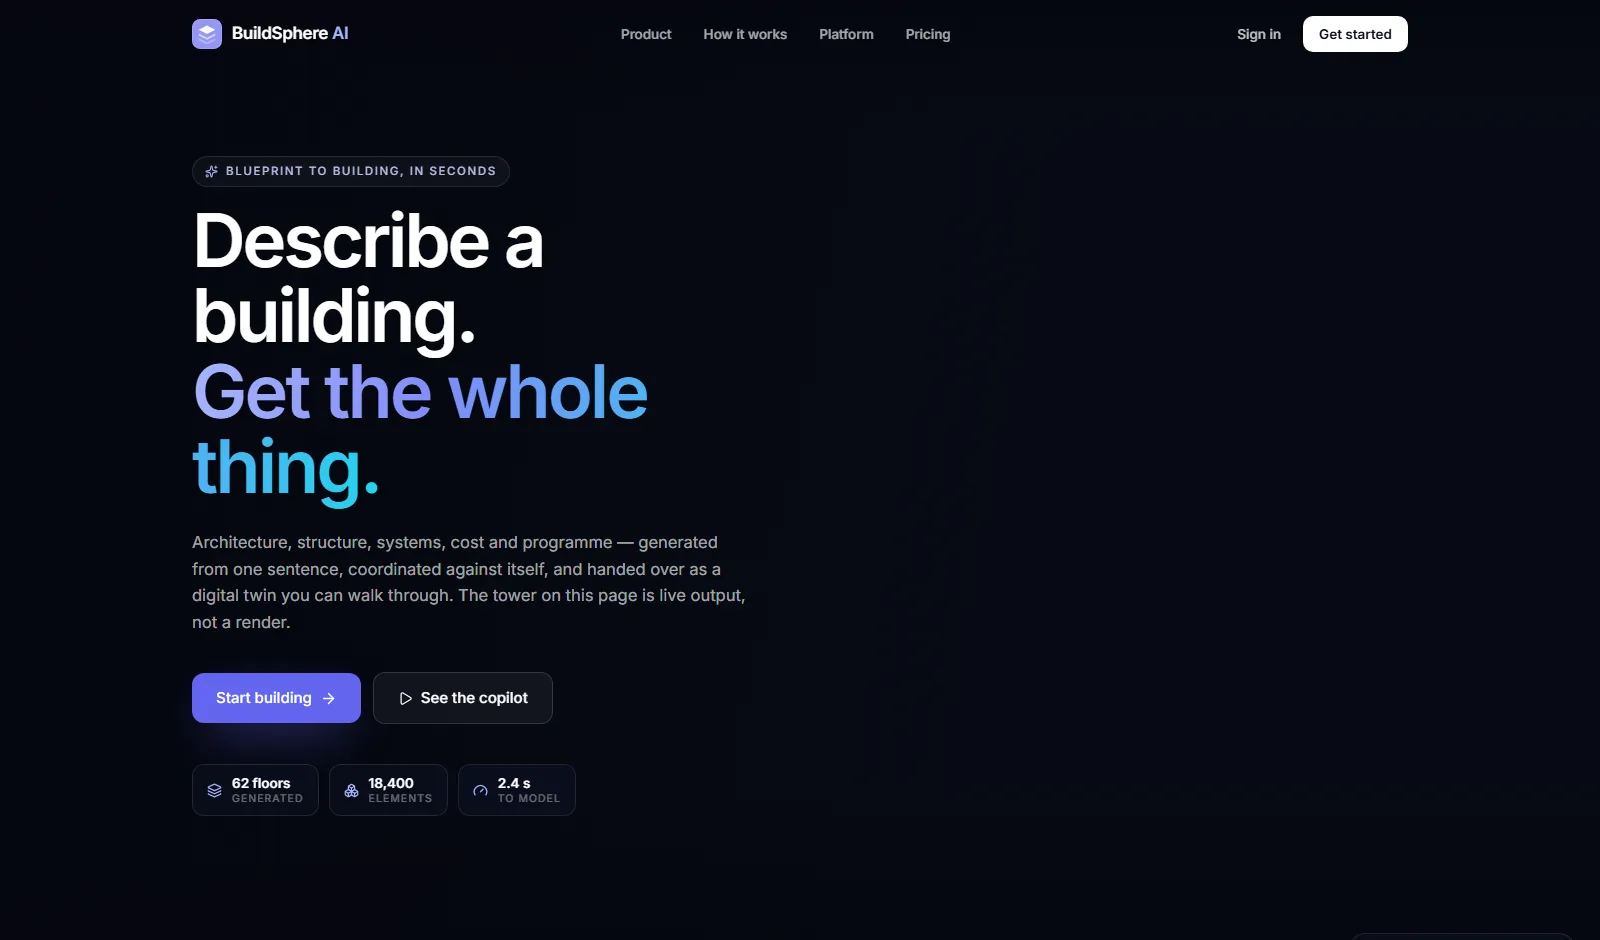
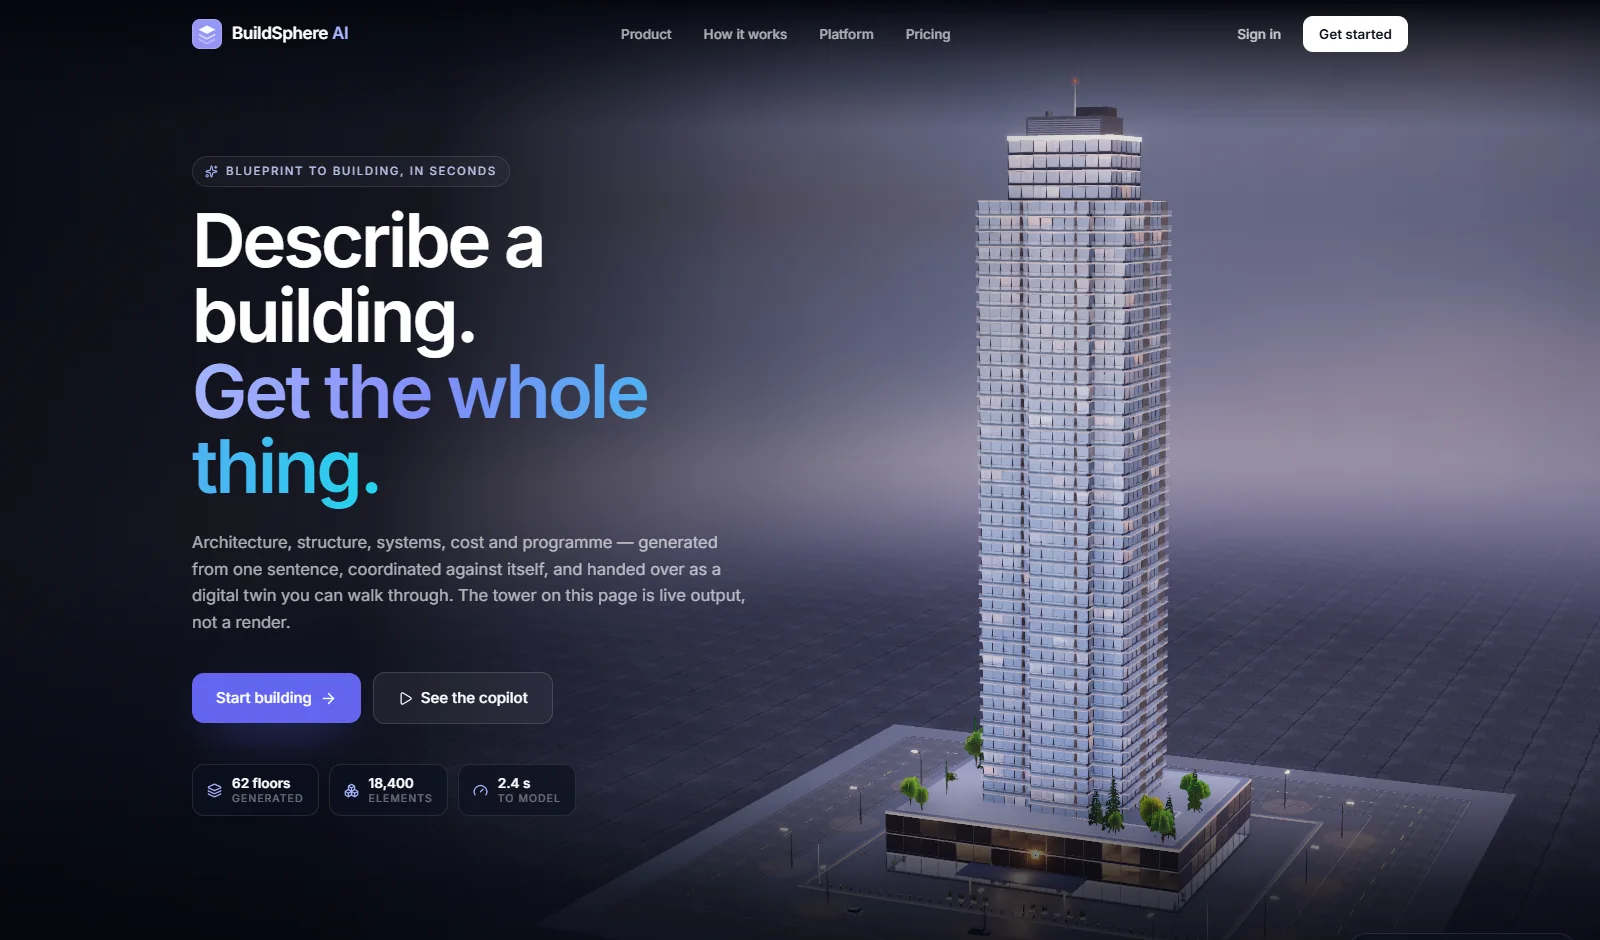
Soften product colours and show BuildSphere's real 3D tower
Each product's glow now stays within one family of its own colour at lower
strength, instead of pairing clashing hues. BuildSphere's screens are the
live WebGL tower from its landing page, replacing the drawn blueprint.

diff --git a/src/components/showcase/ProductAura.tsx b/src/components/showcase/ProductAura.tsx
@@ -1,13 +1,17 @@
 import { cn } from "@/lib/utils";
 
-/** A second hue for each product's atmosphere, so no two look alike. */
+/**
+ * A lighter tint of each product's own colour, used for gradients and the
+ * second pool of light. Staying in one colour family keeps every product
+ * calm and distinct instead of rainbow-like.
+ */
 const PARTNER: Record<string, string> = {
-  "ai-dms": "#22d3ee",
-  "aldar-sustainability-platform": "#84cc16",
-  "enterprise-agentos": "#ec4899",
-  "vantage-enterprise": "#6366f1",
-  "enterprise-dashboards": "#ef4444",
-  "buildsphere-ai": "#6366f1",
+  "ai-dms": "#a5b4fc",
+  "aldar-sustainability-platform": "#6ee7b7",
+  "enterprise-agentos": "#c4b5fd",
+  "vantage-enterprise": "#7dd3fc",
+  "enterprise-dashboards": "#fcd34d",
+  "buildsphere-ai": "#fca5a5",
 };
 
 export function partnerHue(slug: string, accent: string): string {
@@ -36,7 +40,7 @@ export function ProductAura({
         className="absolute -left-[10%] top-[5%] h-[80%] w-[60%] rounded-full blur-[90px]"
         style={{
           background: accent,
-          opacity: 0.32 * intensity,
+          opacity: 0.16 * intensity,
           animation: "ax-drift 14s ease-in-out infinite",
         }}
       />
@@ -44,54 +48,17 @@ export function ProductAura({
         className="absolute -right-[8%] bottom-[-10%] h-[75%] w-[55%] rounded-full blur-[100px]"
         style={{
           background: partner,
-          opacity: 0.22 * intensity,
+          opacity: 0.1 * intensity,
           animation: "ax-drift 17s ease-in-out -6s infinite",
         }}
       />
       <span
-        className="absolute left-1/2 top-1/2 aspect-square w-[85%] -translate-x-1/2 -translate-y-1/2 rounded-full opacity-[0.16] blur-[40px]"
+        className="absolute left-1/2 top-1/2 aspect-square w-[85%] -translate-x-1/2 -translate-y-1/2 rounded-full opacity-[0.07] blur-[50px]"
         style={{
           background: `conic-gradient(from 0deg, ${accent}, transparent 30%, ${partner} 55%, transparent 80%, ${accent})`,
           animation: "ax-spin 40s linear infinite",
         }}
       />
     </div>
-  );
-}
-
-/**
- * BuildSphere's signature: a tower drawn as a construction blueprint,
- * standing behind its screen. Decorative only.
- */
-export function BlueprintTower({ accent, className }: { accent: string; className?: string }) {
-  const floors = 22;
-  return (
-    <svg viewBox="0 0 200 420" className={cn("pointer-events-none", className)} aria-hidden>
-      <defs>
-        <linearGradient id="bp-fade" x1="0" y1="0" x2="0" y2="1">
-          <stop offset="0" stopColor="#fecaca" stopOpacity="1" />
-          <stop offset="1" stopColor={accent} stopOpacity="0.55" />
-        </linearGradient>
-      </defs>
-      <g fill="none" stroke="url(#bp-fade)" strokeWidth="1.6">
-        {/* podium */}
-        <path d="M20 400 L20 350 L180 350 L180 400" />
-        <path d="M20 375 L180 375" opacity="0.6" />
-        {/* tower */}
-        <path d="M55 350 L60 40 L140 40 L145 350" />
-        <path d="M100 40 L100 14 M92 22 L108 22" />
-        {Array.from({ length: floors }, (_, i) => {
-          const y = 350 - ((i + 1) * 310) / (floors + 1);
-          const inset = ((350 - y) / 310) * 5;
-          return <path key={i} d={`M${55 + inset} ${y} L${145 - inset} ${y}`} opacity={0.55 + (i % 4 === 0 ? 0.45 : 0)} />;
-        })}
-        {[75, 100, 125].map((x) => (
-          <path key={x} d={`M${x} 350 L${x} 40`} opacity="0.45" strokeDasharray="3 5" />
-        ))}
-        {/* dimension lines */}
-        <path d="M168 40 L168 350 M163 40 L173 40 M163 350 L173 350" opacity="0.5" />
-        <path d="M55 384 L145 384" opacity="0.4" strokeDasharray="2 3" />
-      </g>
-    </svg>
   );
 }

diff --git a/src/components/showcase/ProductShowcase.tsx b/src/components/showcase/ProductShowcase.tsx
@@ -6,7 +6,7 @@ import type { ResolvedProduct } from "@/cms/useProduct";
 import { Icon } from "@/components/ui/Icon";
 import { cn } from "@/lib/utils";
 import { BrowserFrame } from "./BrowserFrame";
-import { BlueprintTower, ProductAura } from "./ProductAura";
+import { ProductAura } from "./ProductAura";
 import { ProductSchematic } from "./ProductSchematic";
 
 /** Every screen for a product: portal uploads first, then the bundled captures. */
@@ -122,16 +122,6 @@ export function ProductShowcase({
             </div>
           ))}
       </motion.div>
-
-      {product.slug === "buildsphere-ai" && (
-        <BlueprintTower
-          accent={product.accent}
-          className={cn(
-            "absolute z-30 h-[82%] w-auto drop-shadow-[0_0_18px_rgba(239,68,68,0.45)]",
-            sm ? "bottom-[10%] right-[12%] h-[70%]" : "bottom-[12%] right-[10%]",
-          )}
-        />
-      )}
     </div>
   );
 }

diff --git a/src/components/sections/ProductStage.tsx b/src/components/sections/ProductStage.tsx
@@ -34,13 +34,13 @@ export function ProductStage({ product: source, index }: { product: Product; ind
         aria-hidden
         className="pointer-events-none absolute inset-0 -z-10"
         style={{
-          background: `radial-gradient(60% 70% at ${flip ? "20%" : "80%"} 50%, ${product.accent}1f, transparent 70%)`,
+          background: `radial-gradient(60% 70% at ${flip ? "20%" : "80%"} 50%, ${product.accent}0f, transparent 70%)`,
         }}
       />
       <span
         aria-hidden
         className="pointer-events-none absolute inset-x-0 top-0 h-px"
-        style={{ background: `linear-gradient(90deg, transparent, ${product.accent}55, transparent)` }}
+        style={{ background: `linear-gradient(90deg, transparent, ${product.accent}33, transparent)` }}
       />
 
       <div className="ax-container">

diff --git a/src/data/catalogue.ts b/src/data/catalogue.ts
@@ -514,7 +514,10 @@ const SCREENS: Record<string, [string, string][]> = {
     ["The dashboard builder", "2"],
     ["The assistant proposes changes before anything is applied", "3"],
   ],
-  "buildsphere-ai": [["Describe a building — get the whole thing", "1"]],
+  "buildsphere-ai": [
+    ["Describe a building — get the whole thing", "1"],
+    ["The live digital twin", "2"],
+  ],
 };
 
 export const CATALOGUE: Product[] = RECORDS.map((p) => ({
